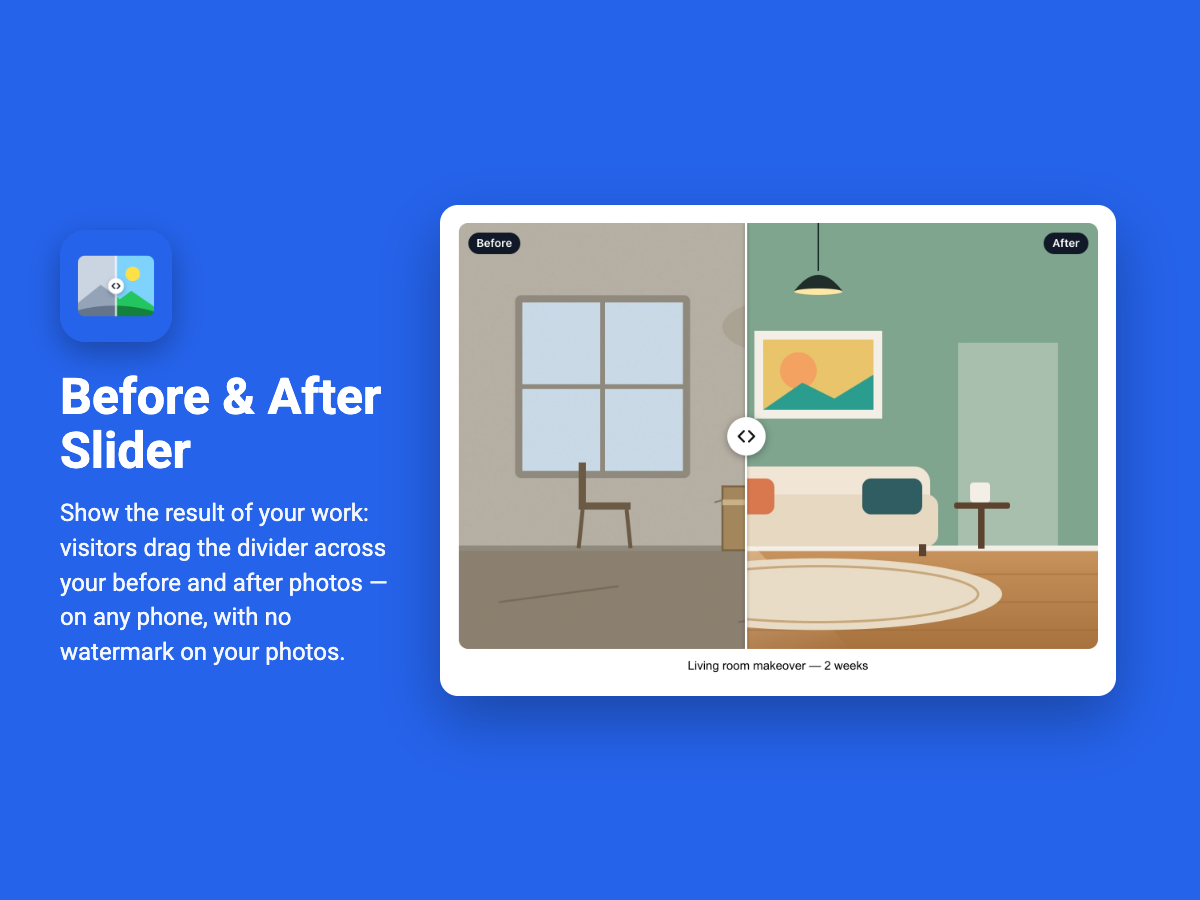
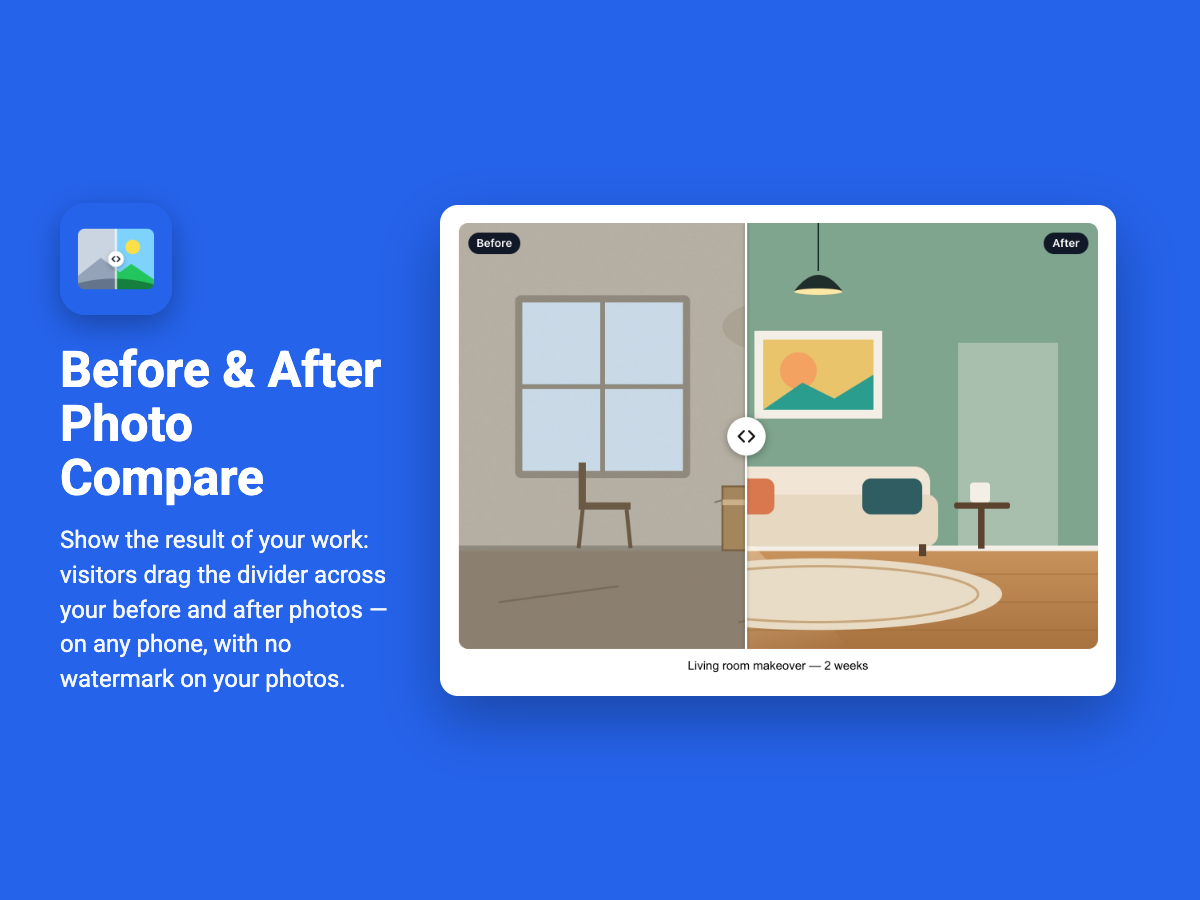
Before & After Photo Compare: rename (legal pages, hero image)

Changed region(s): [[0.0308, 0.2489, 0.3392, 0.7778]]

diff --git a/before-after-terms.md b/before-after-terms.md
@@ -1,9 +1,9 @@
 ---
 layout: default
-title: Terms of Service — Before & After Slider
+title: Terms of Service — Before & After Photo Compare
 ---
 
-# Terms of Service — Before & After Slider
+# Terms of Service — Before & After Photo Compare
 
 _Last updated: October 2026_
 
@@ -11,13 +11,13 @@ _Last updated: October 2026_
 
 ## 1. Acceptance of Terms
 
-By installing or using the Before & After Slider app ("the App") from the Wix App Market, you ("Site Owner") agree to these Terms of Service. If you do not agree, do not install the App.
+By installing or using the Before & After Photo Compare app ("the App") from the Wix App Market, you ("Site Owner") agree to these Terms of Service. If you do not agree, do not install the App.
 
 ---
 
 ## 2. Description of Service
 
-Before & After Slider is a Wix App Market application that lets you show two photos of the same subject — before and after — in an interactive slider on your Wix website, and galleries of several such pairs. Some features are available only under a paid subscription.
+Before & After Photo Compare is a Wix App Market application that lets you show two photos of the same subject — before and after — in an interactive slider on your Wix website, and galleries of several such pairs. Some features are available only under a paid subscription.
 
 ---
 
@@ -47,7 +47,7 @@ You may not reverse engineer, decompile, or attempt to extract the source code o
 
 ## 6. Free and Paid Plans
 
-**Free plan:** up to 3 live comparisons (any number of drafts), each showing one before/after pair, with every shape, direction, handle, label, colour, border and shadow setting. A small "Made with Before & After Slider" line is shown under the widget.
+**Free plan:** up to 3 live comparisons (any number of drafts), each showing one before/after pair, with every shape, direction, handle, label, colour, border and shadow setting. A small "Made with Before & After Photo Compare" line is shown under the widget.
 
 **Premium plan:** unlimited live comparisons, galleries of up to 24 pairs, a slider that follows the mouse, label fonts, and removal of the "Made with" line. Payments are processed by Wix through the Wix Billing System. Subscriptions renew automatically unless cancelled. Returning to the Free plan deletes nothing: comparisons and settings are kept, and Premium parts are simply not shown.
 

diff --git a/before-after-privacy.md b/before-after-privacy.md
@@ -1,9 +1,9 @@
 ---
 layout: default
-title: Privacy Policy — Before & After Slider
+title: Privacy Policy — Before & After Photo Compare
 ---
 
-# Privacy Policy — Before & After Slider
+# Privacy Policy — Before & After Photo Compare
 
 _Last updated: October 2026_
 
@@ -11,7 +11,7 @@ _Last updated: October 2026_
 
 ## 1. Who We Are
 
-This Privacy Policy describes how the Before & After Slider app ("we", "our", "the app") handles information when it is installed on a Wix website. The app is developed and operated by an independent developer and is distributed through the Wix App Market.
+This Privacy Policy describes how the Before & After Photo Compare app ("we", "our", "the app") handles information when it is installed on a Wix website. The app is developed and operated by an independent developer and is distributed through the Wix App Market.
 
 Contact: bieliaiev.d@gmail.com
 
